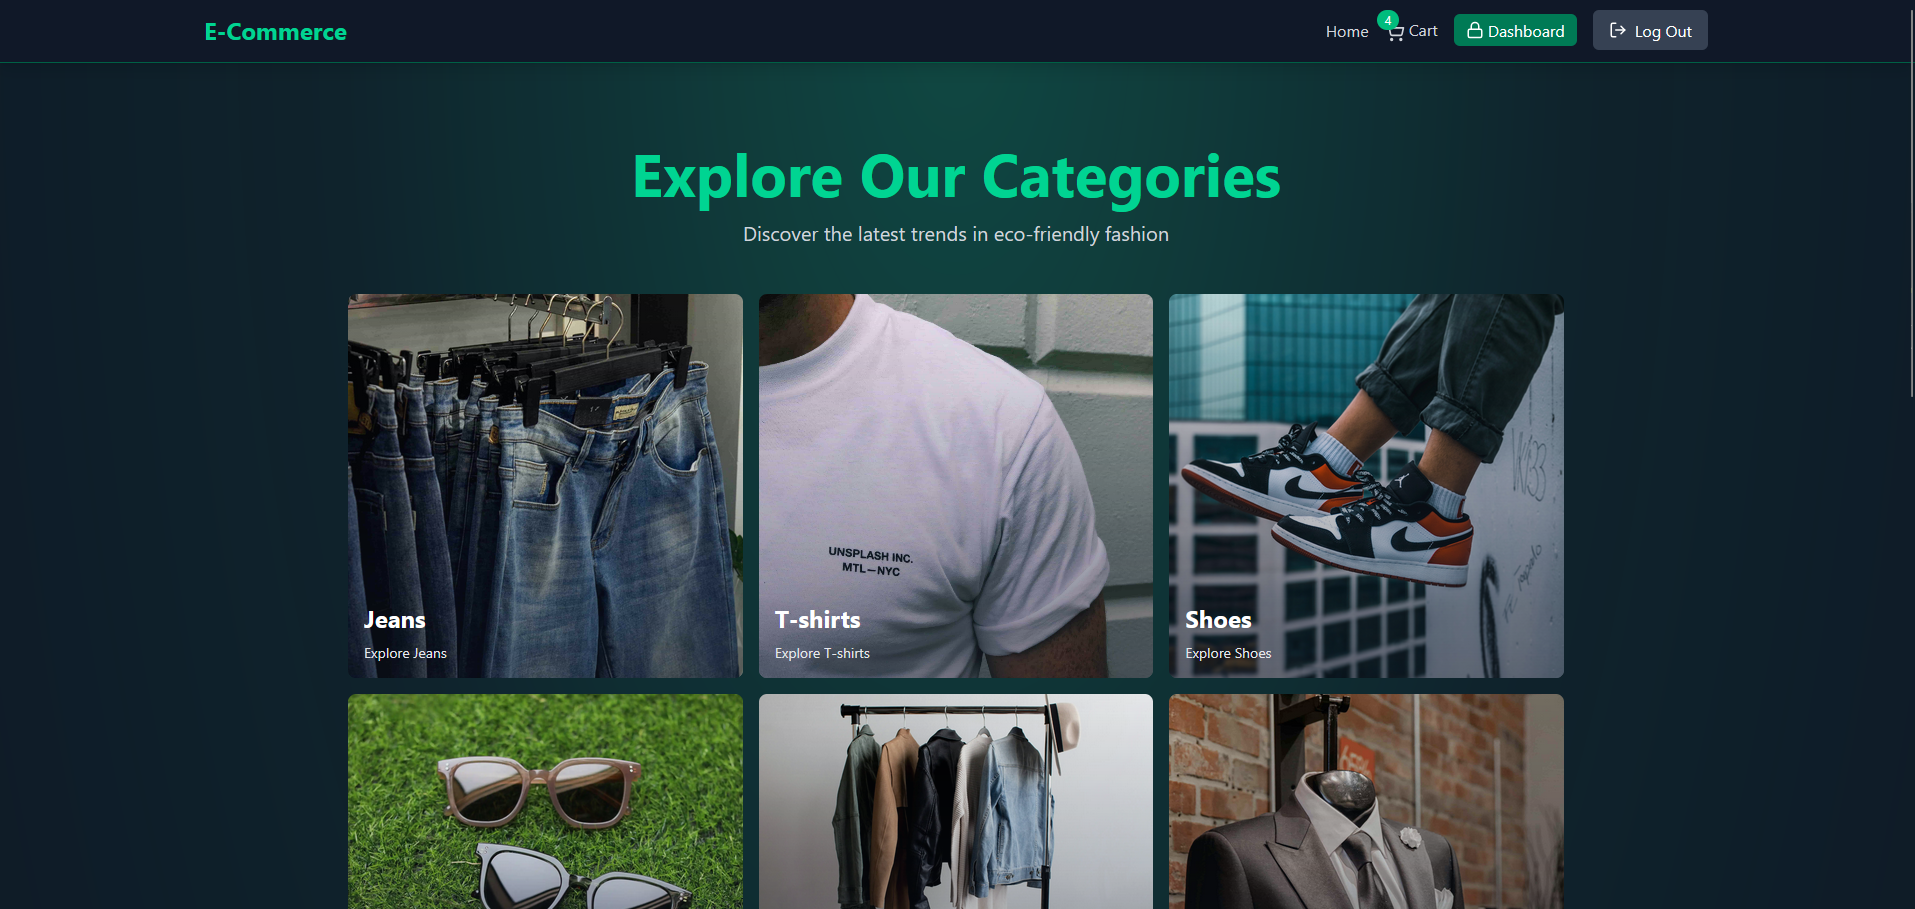
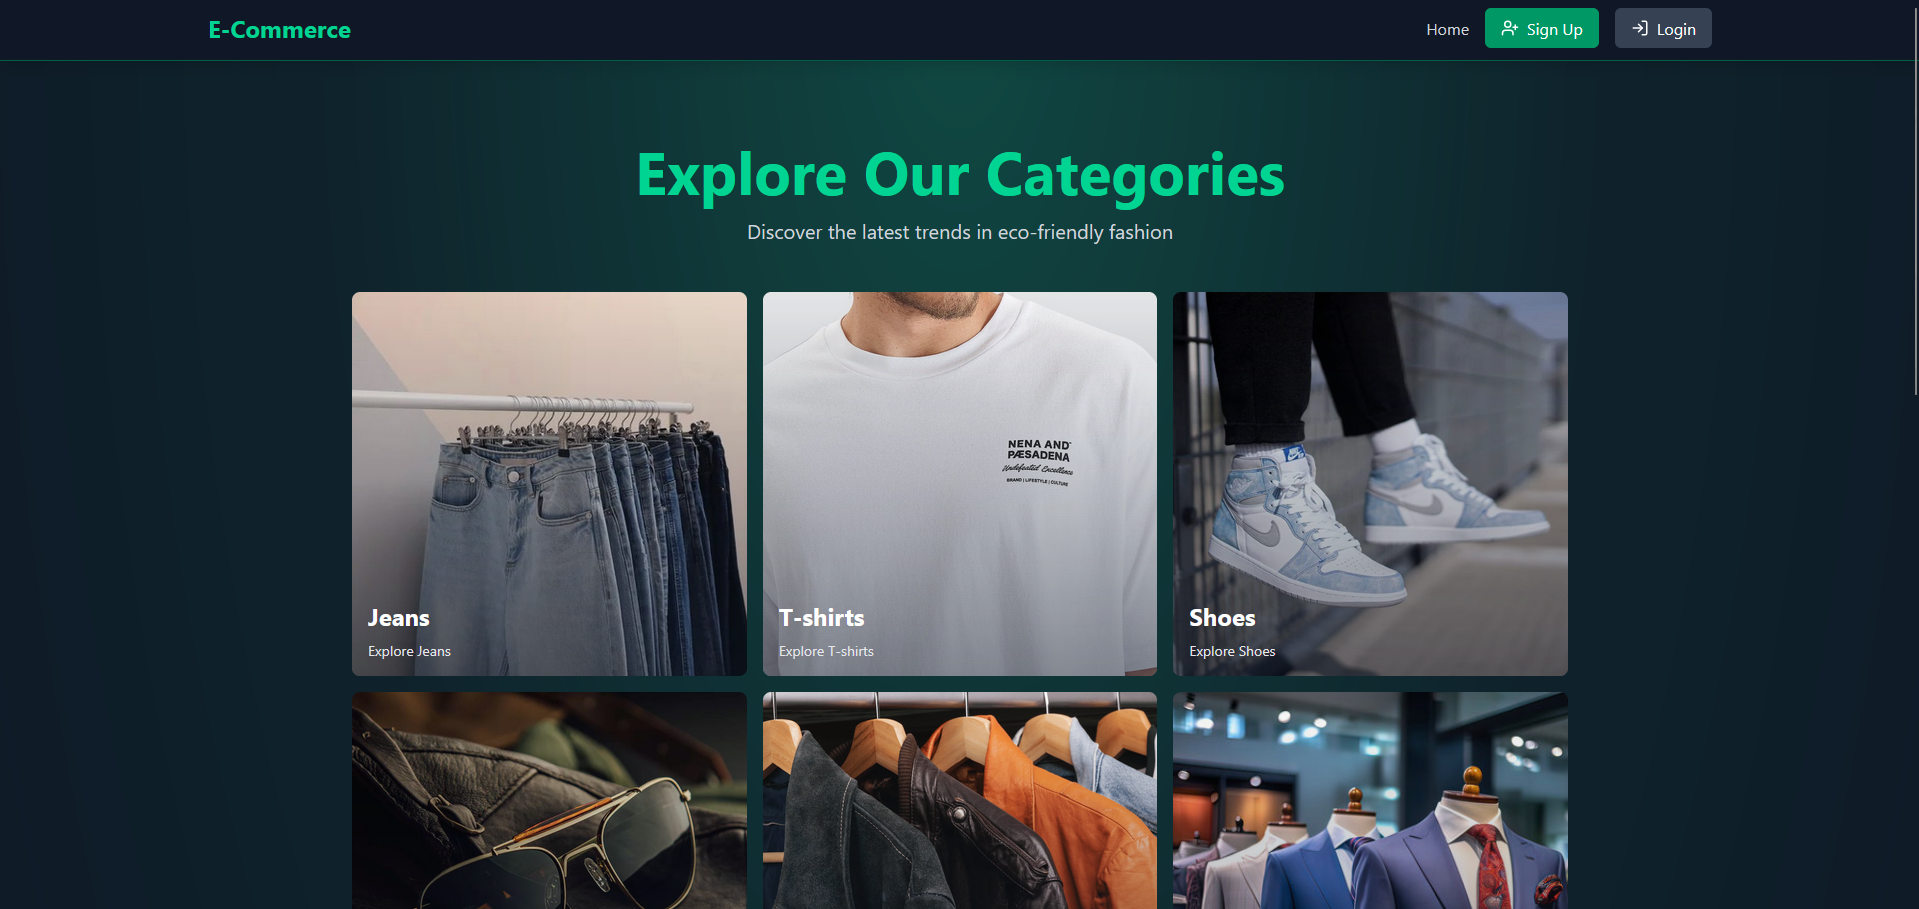
Fix bugs

diff --git a/frontend/src/components/FeaturedProducts.jsx b/frontend/src/components/FeaturedProducts.jsx
@@ -76,7 +76,7 @@ const FeaturedProducts = ({ featuredProducts }) => {
                                             </p>
                                             <button
                                                 className="w-full bg-emerald-600 hover:bg-emerald-500 text-white font-semibold py-2 px-4 rounded 
-                                                transition-colors duration-300 flex items-center justify-center"
+                                                transition-colors duration-300 flex items-center justify-center cursor-pointer"
                                                 onClick={() =>
                                                     addToCart(product)
                                                 }
@@ -91,10 +91,10 @@ const FeaturedProducts = ({ featuredProducts }) => {
                         </div>
                     </div>
                     <button
-                        className={`absolute top-1/2 -left-4 transform -translate-y-1/2 p-2 rounded-full transition-colors duration-300 ${
+                        className={`absolute top-1/2 -left-4 transform -translate-y-1/2 p-2 rounded-full transition-colors duration-300  ${
                             isStartDisabled
                                 ? 'bg-gray-400 cursor-not-allowed'
-                                : 'bg-emerald-600 hover:bg-emerald-500'
+                                : 'bg-emerald-600 hover:bg-emerald-500 cursor-pointer'
                         }`}
                         onClick={prevSlide}
                         disabled={isStartDisabled}
@@ -103,10 +103,10 @@ const FeaturedProducts = ({ featuredProducts }) => {
                     </button>
 
                     <button
-                        className={`absolute top-1/2 -right-4 transform -translate-y-1/2 p-2 rounded-full transition-colors duration-300 ${
+                        className={`absolute top-1/2 -right-4 transform -translate-y-1/2 p-2 rounded-full transition-colors duration-300  ${
                             isEndDisabled
                                 ? 'bg-gray-400 cursor-not-allowed'
-                                : 'bg-emerald-600 hover:bg-emerald-500'
+                                : 'bg-emerald-600 hover:bg-emerald-500 cursor-pointer'
                         }`}
                         onClick={nextSlide}
                         disabled={isEndDisabled}

diff --git a/frontend/src/components/ProductsList.jsx b/frontend/src/components/ProductsList.jsx
@@ -88,7 +88,7 @@ const ProductsList = () => {
                                         product.isFeatured
                                             ? 'bg-yellow-400 text-gray-900'
                                             : 'bg-gray-600 text-gray-300'
-                                    } hover:bg-yellow-500 transition-colors duration-200`}
+                                    } hover:bg-yellow-500 transition-colors duration-200 cursor-pointer`}
                                 >
                                     <Star className="h-5 w-5" />
                                 </button>
@@ -96,7 +96,7 @@ const ProductsList = () => {
                             <td className="px-6 py-4 whitespace-nowrap text-sm font-medium">
                                 <button
                                     onClick={() => deleteProduct(product._id)}
-                                    className="text-red-400 hover:text-red-300"
+                                    className="text-red-400 hover:text-red-300 cursor-pointer"
                                 >
                                     <Trash className="h-5 w-5" />
                                 </button>

diff --git a/frontend/src/pages/HomePage.jsx b/frontend/src/pages/HomePage.jsx
@@ -7,8 +7,8 @@ const categories = [
     { href: '/jeans', name: 'Jeans', imageUrl: '/jeans.jpg' },
     { href: '/t-shirts', name: 'T-shirts', imageUrl: '/tshirts.jpg' },
     { href: '/shoes', name: 'Shoes', imageUrl: '/shoes.jpg' },
-    { href: '/glasses', name: 'Glasses', imageUrl: '/glasses.png' },
-    { href: '/jackets', name: 'Jackets', imageUrl: '/jackets.jpg' },
+    { href: '/glasses', name: 'Glasses', imageUrl: '/glasses.jpg' },
+    { href: '/jackets', name: 'Jackets', imageUrl: '/jackets.png' },
     { href: '/suits', name: 'Suits', imageUrl: '/suits.jpg' },
     { href: '/bags', name: 'Bags', imageUrl: '/bags.jpg' },
 ];

diff --git a/frontend/src/components/CreateProductForm.jsx b/frontend/src/components/CreateProductForm.jsx
@@ -199,7 +199,7 @@ const CreateProductForm = () => {
                     type="submit"
                     className="w-full flex justify-center py-2 px-4 border border-transparent rounded-md 
 					shadow-sm text-sm font-medium text-white bg-emerald-600 hover:bg-emerald-700 
-					focus:outline-none focus:ring-2 focus:ring-offset-2 focus:ring-emerald-500 disabled:opacity-50"
+					focus:outline-none focus:ring-2 focus:ring-offset-2 focus:ring-emerald-500 disabled:opacity-50 cursor-pointer"
                     disabled={loading}
                 >
                     {loading ? (

diff --git a/backend/controllers/auth.controller.js b/backend/controllers/auth.controller.js
@@ -91,7 +91,7 @@ export const login = async (req, res) => {
                 role: user.role
             })
         } else {
-            res.status(401).json({ message: "Invalid email or password" })
+            res.status(400).json({ message: "Invalid email or password" })
         }
 
     } catch (error) {
